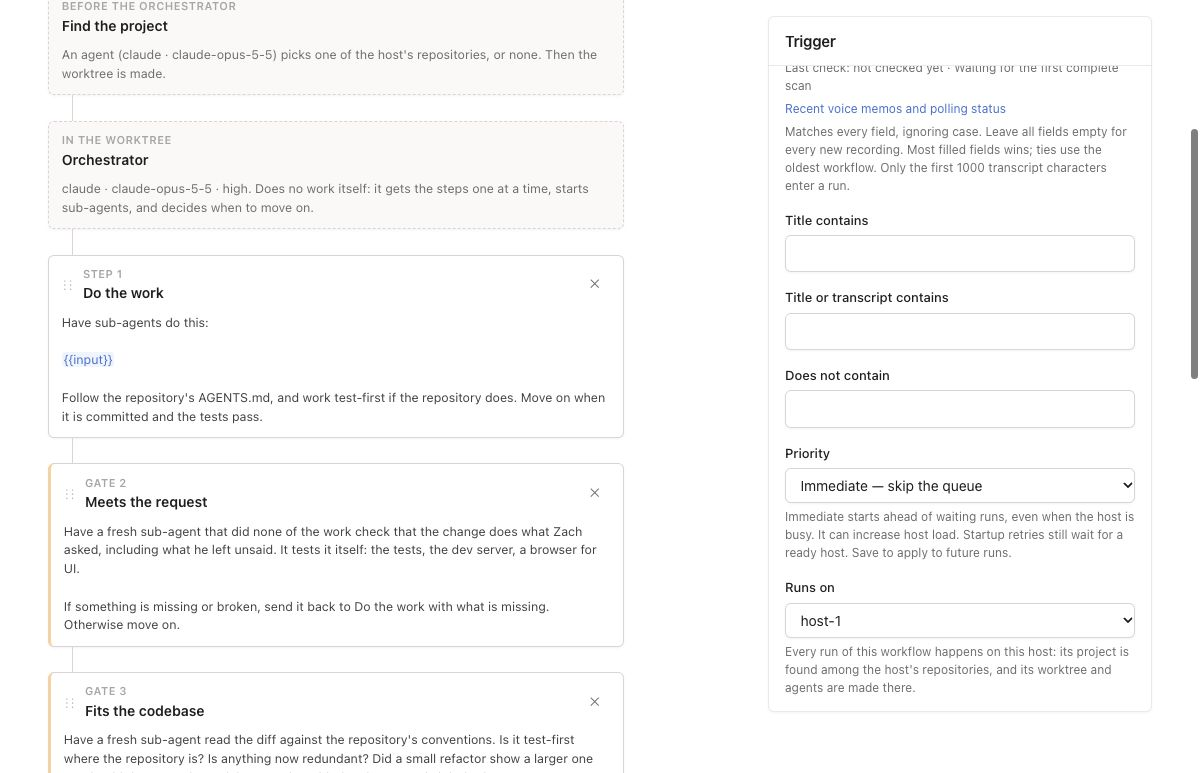
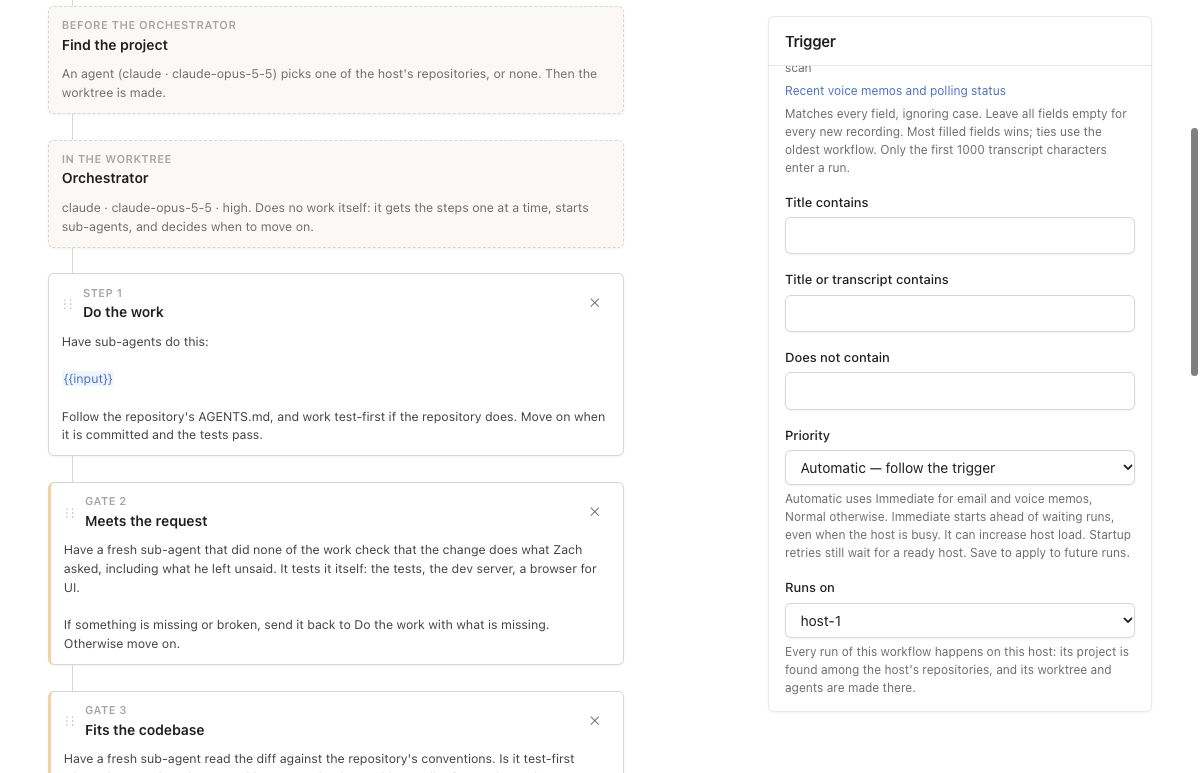
Preserve automatic workflow priority and snapshot effective run priority

diff --git a/internal/web/workflows.html b/internal/web/workflows.html
@@ -377,7 +377,7 @@ function fixedCards() {
       (d.trigger === "task" ? "A task submitted on the Workflows page. It becomes " + V("input") + "." :
         d.trigger === "email" ? esc(emailSummary(d.email)) + (mailbox ? ` to <b>${esc(mailbox)}</b>` : "") + ". The email becomes " + V("input") + "." :
         d.trigger === "voice_memo" ? "A new PDW recording matching the filter. The first 1000 transcript characters become " + V("input") + " with instructions for fetching the full transcript." : "Someone presses Run and types what it should do.") +
-      ` Runs on <b class="mono">${esc(d.host || "no host yet")}</b>. Priority: <b>${esc(d.priority || ((d.trigger === "email" || d.trigger === "voice_memo") ? "immediate" : "normal"))}</b>.`) +
+      ` Runs on <b class="mono">${esc(d.host || "no host yet")}</b>. Priority: <b>${esc(d.priority || ("automatic (" + ((d.trigger === "email" || d.trigger === "voice_memo") ? "immediate" : "normal") + ")"))}</b>.`) +
     `<div class="link"></div>` +
     card("__project", "Before the orchestrator", "Find the project", p.mode === "fixed" ? `Always ${esc(allRepos.find((r) => r.directory === p.directory)?.project || "")} <span class="mono">${esc(p.directory)}</span>.` :
       `An agent (${esc(p.provider)}${p.model ? " · " + esc(p.model) : ""}) picks one of the host's repositories, or none. Then the worktree is made.`) +
@@ -505,8 +505,8 @@ function inspector() {
     if (d.host && !hosts.includes(d.host)) hostOpts.push([d.host, d.host + " (not in this account)"]);
     return panel("Trigger", "", `<label>Starts when</label><select data-d="trigger">${opts([["task", "A task is submitted on the Workflows page"], ["manual", "Someone presses Run"], ["email", "An email arrives"], ["voice_memo", "A voice memo is transcribed in PDW"]], d.trigger)}</select>
     ${d.trigger === "email" ? emailPanel(d.email) : d.trigger === "voice_memo" ? voiceMemoPanel(d.voiceMemo) : `<p class="hint">What was submitted is ${V("input")} in the instructions.</p>`}
-    <label>Priority</label><select data-d="priority">${opts([["", "Automatic — immediate for email and voice memos"], ["normal", "Normal — wait for host capacity"], ["immediate", "Immediate — skip the queue"]], d.priority || "")}</select>
-    <p class="hint">Immediate starts ahead of waiting runs, even when the host is busy. It can increase host load. Startup retries still wait for a ready host. Save to apply to future runs.</p>
+    <label>Priority</label><select data-d="priority">${opts([["", "Automatic — follow the trigger"], ["normal", "Normal — wait for host capacity"], ["immediate", "Immediate — skip the queue"]], d.priority || "")}</select>
+    <p class="hint">Automatic uses Immediate for email and voice memos, Normal otherwise. Immediate starts ahead of waiting runs, even when the host is busy. It can increase host load. Startup retries still wait for a ready host. Save to apply to future runs.</p>
     <label>Runs on</label><select data-d="host">${d.host ? "" : `<option value="" selected disabled>Pick a host</option>`}${opts(hostOpts, d.host || "")}</select>
     <p class="hint">Every run of this workflow happens on this host: its project is found among the host's repositories, and its worktree and agents are made there.</p>`);
   }

diff --git a/internal/web/mcp_proposals.go b/internal/web/mcp_proposals.go
@@ -103,6 +103,6 @@ func (a *app) mcpProposalCall(w http.ResponseWriter, r *http.Request, id json.Ra
 	mcpResult(w, id, map[string]any{"isError": false, "structuredContent": result, "content": []any{map[string]string{"type": "text", "text": string(body)}}})
 }
 
-const proposalHelp = `One proposal changes one workflow or starts one run atomically. operation=run requires workflowId and input (the full task); baseVersion is optional, and the current complete workflow is snapshotted when proposed. Do not send workflow for run proposals. It creates no run or launch command before browser approval. Approval refuses drift, starts exactly one run and records started_run_id; repeat approval cannot create another. Run proposals cannot be undone; cancel the resulting run separately using browser controls. input is only valid for run proposals. operation=create requires workflow {name, description, definition}; operation=update requires workflowId, baseVersion and a complete replacement workflow; operation=delete requires workflowId and baseVersion, with no workflow. summary is safe Markdown (up to 2000 bytes); explain what changes and why. Read workflow_proposal_comments ordered by id to see reviewer questions. Reviewer questions automatically dispatch answer agents. Answer with comment_proposal {id,questionId,text}; text is safe Markdown, up to 20000 bytes. The questionId links one answer idempotently to its dispatch job; omit it for a standalone comment. Agent comments do not dispatch more agents or approve changes. Read workflows and workflow_versions using query first; preserve fields you do not intend to change. definition uses the existing workflow format (host, trigger, project, orchestrator, steps, optional email or voiceMemo, and priority). priority is normal (wait for host capacity) or immediate (skip the capacity queue); omitted priority defaults to immediate for email and voice_memo triggers, normal otherwise. Steps contain id, kind, title and instructions; orchestrator contains provider, model and thinking. The example includes a valid complete definition. No change runs until the account owner opens approvalURL and approves. Proposals expire after seven days. Review/undo conflicts if current state differs from the stored snapshot. Read/list proposals with query against workflow_proposals (before_state, proposed_state, after_state, status, expires_at, undo_state, undone_at). withdraw_mutation requires id and reason, and takes back a pending proposal from this same MCP token. propose_mutation accepts optional proposedBy (Paseo agent identity), runId (workflow run identity), and replacesId; replacement atomically withdraws this MCP token's old pending, unexpired proposal with a recorded reason. Setting the default workflow is not proposable; updates preserve the default while the trigger remains task. There is no agent approval or undo tool.`
+const proposalHelp = `One proposal changes one workflow or starts one run atomically. operation=run requires workflowId and input (the full task); baseVersion is optional, and the current complete workflow is snapshotted when proposed. Do not send workflow for run proposals. It creates no run or launch command before browser approval. Approval refuses drift, starts exactly one run and records started_run_id; repeat approval cannot create another. Run proposals cannot be undone; cancel the resulting run separately using browser controls. input is only valid for run proposals. operation=create requires workflow {name, description, definition}; operation=update requires workflowId, baseVersion and a complete replacement workflow; operation=delete requires workflowId and baseVersion, with no workflow. summary is safe Markdown (up to 2000 bytes); explain what changes and why. Read workflow_proposal_comments ordered by id to see reviewer questions. Reviewer questions automatically dispatch answer agents. Answer with comment_proposal {id,questionId,text}; text is safe Markdown, up to 20000 bytes. The questionId links one answer idempotently to its dispatch job; omit it for a standalone comment. Agent comments do not dispatch more agents or approve changes. Read workflows and workflow_versions using query first; preserve fields you do not intend to change. definition uses the existing workflow format (host, trigger, project, orchestrator, steps, optional email or voiceMemo, and priority). priority is normal (wait for host capacity) or immediate (skip the capacity queue); empty or omitted priority stays Automatic in the saved definition and resolves to immediate for email and voice_memo triggers, normal otherwise. workflow_runs.priority snapshots the effective priority at run creation; join workflow_versions to read the configured setting. Steps contain id, kind, title and instructions; orchestrator contains provider, model and thinking. The example includes a valid complete definition. No change runs until the account owner opens approvalURL and approves. Proposals expire after seven days. Review/undo conflicts if current state differs from the stored snapshot. Read/list proposals with query against workflow_proposals (before_state, proposed_state, after_state, status, expires_at, undo_state, undone_at). withdraw_mutation requires id and reason, and takes back a pending proposal from this same MCP token. propose_mutation accepts optional proposedBy (Paseo agent identity), runId (workflow run identity), and replacesId; replacement atomically withdraws this MCP token's old pending, unexpired proposal with a recorded reason. Setting the default workflow is not proposable; updates preserve the default while the trigger remains task. There is no agent approval or undo tool.`
 
 var proposalSchema = json.RawMessage(`{"type":"object","additionalProperties":false,"required":["operation","summary"],"properties":{"operation":{"type":"string","enum":["create","update","delete","run"]},"summary":{"type":"string","minLength":1,"maxLength":2000},"workflowId":{"type":"string","description":"Workflow UUID, required for update/delete/run"},"baseVersion":{"type":"integer","minimum":1,"description":"Current workflows.version, required for update/delete; optional drift guard for run"},"input":{"type":"string","minLength":1,"maxLength":1048576,"description":"Full task input, required only for operation=run; quoted for review, never executed before approval"},"workflow":{"type":"object","additionalProperties":false,"required":["name","definition"],"properties":{"name":{"type":"string","maxLength":100},"description":{"type":"string"},"definition":{"type":"object","description":"Full workflow definition; call propose_mutation_help for a valid example, or read workflow_versions.definition with query"}}},"proposedBy":{"type":"string","maxLength":500,"description":"Optional Paseo agent id or proposer label; authenticated credential remains authoritative"},"runId":{"type":"string","maxLength":200,"description":"Optional workflow run id for attribution"},"replacesId":{"type":"string","description":"Your pending proposal UUID to withdraw atomically when this proposal is created"}}}`)

diff --git a/internal/workflow/engine.go b/internal/workflow/engine.go
@@ -247,7 +247,6 @@ func (e *Engine) applyWorkflowState(ctx context.Context, tx pgx.Tx, account int6
 	}
 	s.Name = name
 	s.Description = strings.TrimSpace(s.Description)
-	s.Definition.defaultPriority()
 	if err := s.Definition.Validate(); err != nil {
 		return "", nil, bad("%s", err)
 	}
@@ -368,20 +367,21 @@ type run struct {
 	StartRetryAt                                 *time.Time
 	StartRetries                                 int
 	Name                                         string
+	Priority                                     string
 	Def                                          Definition
 }
 
 func (r run) vars() Vars { return Vars{Run: r.ID, Input: r.Input, Repo: r.Repo, Branch: r.Branch} }
 
 const runSelect = `SELECT r.id::text, r.host, r.title, r.input, r.status, r.repo, r.branch, r.account_id, r.step, r.workspace_id,
-	r.project_agent_id, r.orchestrator_id, r.project_command::text, w.name, v.definition, r.start_retry_at, r.start_retries
+	r.project_agent_id, r.orchestrator_id, r.project_command::text, w.name, v.definition, r.start_retry_at, r.start_retries, r.priority
 	FROM workflow_runs r JOIN workflow_versions v USING (workflow_id, version) JOIN workflows w ON w.id = r.workflow_id `
 
 func scanRun(row pgx.Row) (run, error) {
 	var r run
 	var def []byte
 	err := row.Scan(&r.ID, &r.Host, &r.Title, &r.Input, &r.Status, &r.Repo, &r.Branch, &r.Account, &r.Step, &r.WorkspaceID,
-		&r.ProjectAgent, &r.Orchestrator, &r.ProjectCommand, &r.Name, &def, &r.StartRetryAt, &r.StartRetries)
+		&r.ProjectAgent, &r.Orchestrator, &r.ProjectCommand, &r.Name, &def, &r.StartRetryAt, &r.StartRetries, &r.Priority)
 	if errors.Is(err, pgx.ErrNoRows) {
 		return r, ErrNotFound
 	}
@@ -446,7 +446,7 @@ func (e *Engine) StartRunTx(ctx context.Context, tx pgx.Tx, account int64, workf
 			return err
 		}
 		var why string
-		if d.Priority != PriorityImmediate {
+		if d.EffectivePriority() != PriorityImmediate {
 			why, err = e.queueReason(ctx, tx, host)
 			if err != nil {
 				return err
@@ -456,9 +456,9 @@ func (e *Engine) StartRunTx(ctx context.Context, tx pgx.Tx, account int64, workf
 		if why != "" {
 			status = Queued
 		}
-		if err := tx.QueryRow(ctx, `INSERT INTO workflow_runs (account_id, workflow_id, version, host, title, input, status, queue_reason, created_at, updated_at)
-			VALUES ($1, $2, $3, $4, $5, $6, $7, $8, $9, $9) RETURNING id::text`, account, workflowID, version, host, taskName(input), input,
-			status, why, e.Now()).Scan(&id); err != nil { // now, holding the lock: the queue's order is the order decided
+		if err := tx.QueryRow(ctx, `INSERT INTO workflow_runs (account_id, workflow_id, version, host, title, input, status, queue_reason, created_at, updated_at, priority)
+			VALUES ($1, $2, $3, $4, $5, $6, $7, $8, $9, $9, $10) RETURNING id::text`, account, workflowID, version, host, taskName(input), input,
+			status, why, e.Now(), d.EffectivePriority()).Scan(&id); err != nil { // now, holding the lock: the queue's order is the order decided
 			return err
 		}
 		r, err := scanRun(tx.QueryRow(ctx, runSelect+"WHERE r.id = $1", id))

diff --git a/internal/web/priority_test.go b/internal/web/priority_test.go
@@ -1,6 +1,7 @@
 package web
 
 import (
+	"encoding/json"
 	"net/http"
 	"strings"
 	"testing"
@@ -106,16 +107,31 @@ func TestEmailAndVoiceMemoPriorityDefaultsStartImmediately(t *testing.T) {
 			b := openStream(t, h, "host-1")
 			hostMinute(t, b, time.Now().UTC().Truncate(time.Minute), 97, .5)
 			def := workflow.Starting
+			wf := createWorkflow(t, h, def)
+			// The editor opens the saved task definition before switching its trigger.
+			var saved []byte
+			if err := d.Owner.QueryRow(t.Context(), `SELECT v.definition FROM workflows w JOIN workflow_versions v ON v.workflow_id=w.id AND v.version=w.version WHERE w.id=$1`, wf).Scan(&saved); err != nil {
+				t.Fatal(err)
+			}
+			if err := json.Unmarshal(saved, &def); err != nil {
+				t.Fatal(err)
+			}
 			def.Trigger = trigger
 			if trigger == workflow.TriggerEmail {
 				def.Email = &workflow.EmailFilter{From: []string{"sender@example.com"}}
 			} else {
 				def.VoiceMemo = &workflow.VoiceMemoFilter{}
 			}
-			wf := createWorkflow(t, h, def)
+			if rec := call(t, h, http.MethodPut, "/api/workflows/"+wf, wfBody(t, "Automatic requests", def), sameOriginFetch); rec.Code != 200 {
+				t.Fatal(rec.Body)
+			}
 			run := startRun(t, h, wf, "new request")
 			if got := runField(t, h, run, "status"); got == "queued" {
 				t.Fatal("default request queued")
+			}
+			code, rows := sqlPost(t, h, q("SELECT coalesce(v.definition->>'priority',''),r.priority FROM workflow_runs r JOIN workflow_versions v USING(workflow_id,version) WHERE r.id='"+run+"'"))
+			if code != 200 || len(rows.Rows) != 1 || rows.Rows[0][0] != "" || rows.Rows[0][1] != "immediate" {
+				t.Fatalf("configured/effective priorities: %+v", rows)
 			}
 			def.Priority = workflow.PriorityNormal
 			if rec := call(t, h, http.MethodPut, "/api/workflows/"+wf, wfBody(t, "Normal requests", def), sameOriginFetch); rec.Code != 200 {
@@ -124,6 +140,10 @@ func TestEmailAndVoiceMemoPriorityDefaultsStartImmediately(t *testing.T) {
 			run = startRun(t, h, wf, "normal request")
 			if got := runField(t, h, run, "status"); got != "queued" {
 				t.Fatalf("normal request = %v", got)
+			}
+			code, rows = sqlPost(t, h, q("SELECT priority FROM workflow_runs WHERE workflow_id='"+wf+"' ORDER BY created_at"))
+			if code != 200 || len(rows.Rows) != 2 || rows.Rows[0][0] != "immediate" || rows.Rows[1][0] != "normal" {
+				t.Fatalf("run priorities changed after edit: %+v", rows)
 			}
 		})
 	}

diff --git a/internal/workflow/definition.go b/internal/workflow/definition.go
@@ -23,7 +23,7 @@ import (
 // Definition is one version of a workflow: the host it runs on, what starts it, how its project
 // is found, its orchestrator, and its steps, in order.
 type Definition struct {
-	Priority     string           `json:"priority,omitempty"`  // normal queues for capacity; immediate bypasses it
+	Priority     string           `json:"priority,omitempty"`  // empty is Automatic, resolved from Trigger when each run starts
 	Host         string           `json:"host"`                // the account's host every run happens on
 	Trigger      string           `json:"trigger"`             // task (submitted on the Workflows page), manual, email or voice_memo
 	Email        *EmailFilter     `json:"email,omitempty"`     // email: which email starts a run
@@ -86,17 +86,18 @@ func Parse(b []byte) (Definition, error) {
 	if err := dec.Decode(&d); err != nil {
 		return d, fmt.Errorf("bad workflow: %w", err)
 	}
-	d.defaultPriority()
 	return d, d.Validate()
 }
 
-func (d *Definition) defaultPriority() {
-	if d.Priority == "" {
-		d.Priority = PriorityNormal
-		if d.Trigger == TriggerEmail || d.Trigger == TriggerVoiceMemo {
-			d.Priority = PriorityImmediate
-		}
+// EffectivePriority resolves Automatic without changing the saved configuration.
+func (d Definition) EffectivePriority() string {
+	if d.Priority != "" {
+		return d.Priority
 	}
+	if d.Trigger == TriggerEmail || d.Trigger == TriggerVoiceMemo {
+		return PriorityImmediate
+	}
+	return PriorityNormal
 }
 
 // Validate says what in d cannot run.

diff --git a/internal/db/priority_test.go b/internal/db/priority_test.go
@@ -35,13 +35,14 @@ func TestPriorityMigrationPreservesRunSnapshots(t *testing.T) {
 	}
 	for name, want := range map[string]string{"Email task": "immediate", "Voice memos": "immediate", "Task": "normal", "Explicit normal": "normal"} {
 		var priority string
-		if err := ann.QueryRow(ctx, `SELECT v.definition->>'priority' FROM workflows w JOIN workflow_versions v ON v.workflow_id=w.id AND v.version=w.version WHERE w.name=$1`, name).Scan(&priority); err != nil || priority != want {
+		if err := ann.QueryRow(ctx, `SELECT coalesce(v.definition->>'priority','normal') FROM workflows w JOIN workflow_versions v ON v.workflow_id=w.id AND v.version=w.version WHERE w.name=$1`, name).Scan(&priority); err != nil || priority != want {
 			t.Fatalf("%s: %q %v", name, priority, err)
 		}
 	}
 	var version int
 	var unchanged bool
-	if err := ann.QueryRow(ctx, `SELECT r.version, v.definition='{"trigger":"email"}'::jsonb FROM workflow_runs r JOIN workflow_versions v USING(workflow_id,version)`).Scan(&version, &unchanged); err != nil || version != 1 || !unchanged {
+	var priority string
+	if err := ann.QueryRow(ctx, `SELECT r.version, v.definition='{"trigger":"email"}'::jsonb, r.priority FROM workflow_runs r JOIN workflow_versions v USING(workflow_id,version)`).Scan(&version, &unchanged, &priority); err != nil || version != 1 || !unchanged || priority != "normal" {
 		t.Fatalf("snapshot: %d %v %v", version, unchanged, err)
 	}
 	if err := db.CheckContract(ctx, d.Owner, d.Readonly); err != nil {

diff --git a/internal/workflow/queue.go b/internal/workflow/queue.go
@@ -190,7 +190,7 @@ func (e *Engine) startNext(ctx context.Context, tx pgx.Tx, host string) (bool, e
 	if err := lockQueue(ctx, tx, host); err != nil {
 		return false, err
 	}
-	r, err := scanRun(tx.QueryRow(ctx, runSelect+"WHERE r.host = $1 AND (r.status = $2 OR r.start_retry_queued) ORDER BY (coalesce(v.definition->>'priority', 'normal') = 'immediate') DESC, r.created_at, r.id LIMIT 1 FOR UPDATE OF r", host, Queued))
+	r, err := scanRun(tx.QueryRow(ctx, runSelect+"WHERE r.host = $1 AND (r.status = $2 OR r.start_retry_queued) ORDER BY (r.priority = 'immediate') DESC, r.created_at, r.id LIMIT 1 FOR UPDATE OF r", host, Queued))
 	if errors.Is(err, ErrNotFound) {
 		return false, nil
 	}
@@ -207,7 +207,7 @@ func (e *Engine) startNext(ctx context.Context, tx pgx.Tx, host string) (bool, e
 		}
 	}
 	var why string
-	if r.Def.Priority != PriorityImmediate {
+	if r.Priority != PriorityImmediate {
 		why, err = e.room(ctx, tx, host)
 		if err != nil {
 			return false, err
@@ -221,7 +221,7 @@ func (e *Engine) startNext(ctx context.Context, tx pgx.Tx, host string) (bool, e
 		return e.dequeueRetry(ctx, tx, r)
 	}
 	reason := host + " has room"
-	if r.Def.Priority == PriorityImmediate {
+	if r.Priority == PriorityImmediate {
 		reason = "immediate priority, ahead of the queue"
 	}
 	return true, e.dequeue(ctx, tx, r, reason)

diff --git a/internal/workflow/priority_test.go b/internal/workflow/priority_test.go
@@ -40,8 +40,11 @@ func TestPriorityDefaultsAndValidation(t *testing.T) {
 					want = "immediate"
 				}
 			}
-			if fields["priority"] != want {
-				t.Errorf("%s/%s: priority = %v, want %s", trigger, priority, fields["priority"], want)
+			if got.Priority != priority {
+				t.Errorf("configured priority changed: %q -> %q", priority, got.Priority)
+			}
+			if got.EffectivePriority() != want {
+				t.Errorf("%s/%s: priority = %v, want %s", trigger, priority, got.EffectivePriority(), want)
 			}
 		}
 	}

diff --git a/internal/workflow/proposals.go b/internal/workflow/proposals.go
@@ -106,7 +106,6 @@ func (e *Engine) Propose(ctx context.Context, account int64, proposer string, r 
 		}
 		r.Workflow.Name = name
 		r.Workflow.Description = strings.TrimSpace(r.Workflow.Description)
-		r.Workflow.Definition.defaultPriority()
 		if r.Workflow.Version != 0 || r.Workflow.IsDefault || r.Workflow.Deleted {
 			return "", bad("workflow takes only name, description and definition")
 		}

diff --git a/internal/workflow/retry.go b/internal/workflow/retry.go
@@ -105,7 +105,7 @@ func (e *Engine) dequeueRetry(ctx context.Context, tx pgx.Tx, r run) (bool, erro
 		return false, err
 	}
 	reason := r.Host + " has room for the retry"
-	if r.Def.Priority == PriorityImmediate {
+	if r.Priority == PriorityImmediate {
 		reason = "immediate priority retry, ahead of the queue"
 	}
 	if err := e.recordDequeue(ctx, tx, r, reason); err != nil {

diff --git a/README.md b/README.md
@@ -880,13 +880,24 @@ Without fresh telemetry the server cannot know the host's capacity:
 In the workflow editor's Trigger panel, **Priority** chooses **Normal** (wait for capacity)
 or **Immediate** (skip the queue and capacity hold). Save it through the existing
 `POST /api/workflows` or `PUT /api/workflows/{id}` JSON route as `definition.priority`:
-`"normal"` or `"immediate"`. Omitting it or using `""` selects immediate for email and
-voice-memo triggers, normal otherwise. An explicit normal setting always wins.
-Migration `0040_workflow_priority` versions existing active workflows with these defaults;
+`"normal"`, `"immediate"`, or `""` for Automatic. Automatic stays unset in the saved definition
+and follows the trigger: immediate for email and voice memos, normal otherwise, including
+after changing a task workflow to an email or voice-memo trigger. An explicit normal setting always wins.
+Migration `0040_workflow_priority` versions existing active email and voice-memo workflows
+with explicit Immediate priority;
 email requests, including voice emails, and voice memos start immediately after deployment.
-Existing runs keep their saved versions and priority. Read a run's priority by joining
-`workflow_runs` to `workflow_versions` on `(workflow_id, version)` and selecting
-`coalesce(definition->>'priority', 'normal')` through `/api/sql`.
+Each new run snapshots its resolved priority in `workflow_runs.priority`, so later workflow
+edits cannot change its queue or retry behavior. Existing runs without an explicit priority,
+including email and voice-memo runs already queued at deployment, retain Normal; use **Start now**
+to launch one immediately. Read the configured setting and effective run snapshot through `/api/sql`:
+
+```sql
+SELECT coalesce(v.definition->>'priority', '') AS configured_priority, r.priority AS effective_priority
+FROM workflow_runs r JOIN workflow_versions v USING (workflow_id, version);
+```
+
+An empty configured priority means Automatic. `workflow_run_queue.priority` also exposes the
+effective snapshot. The saved definition remains available for future workflow edits.
 
 Immediate runs launch even with older runs waiting or missing capacity measurements. Their
 startup retries also go first and bypass capacity, but still respect retry backoff, deadlines
